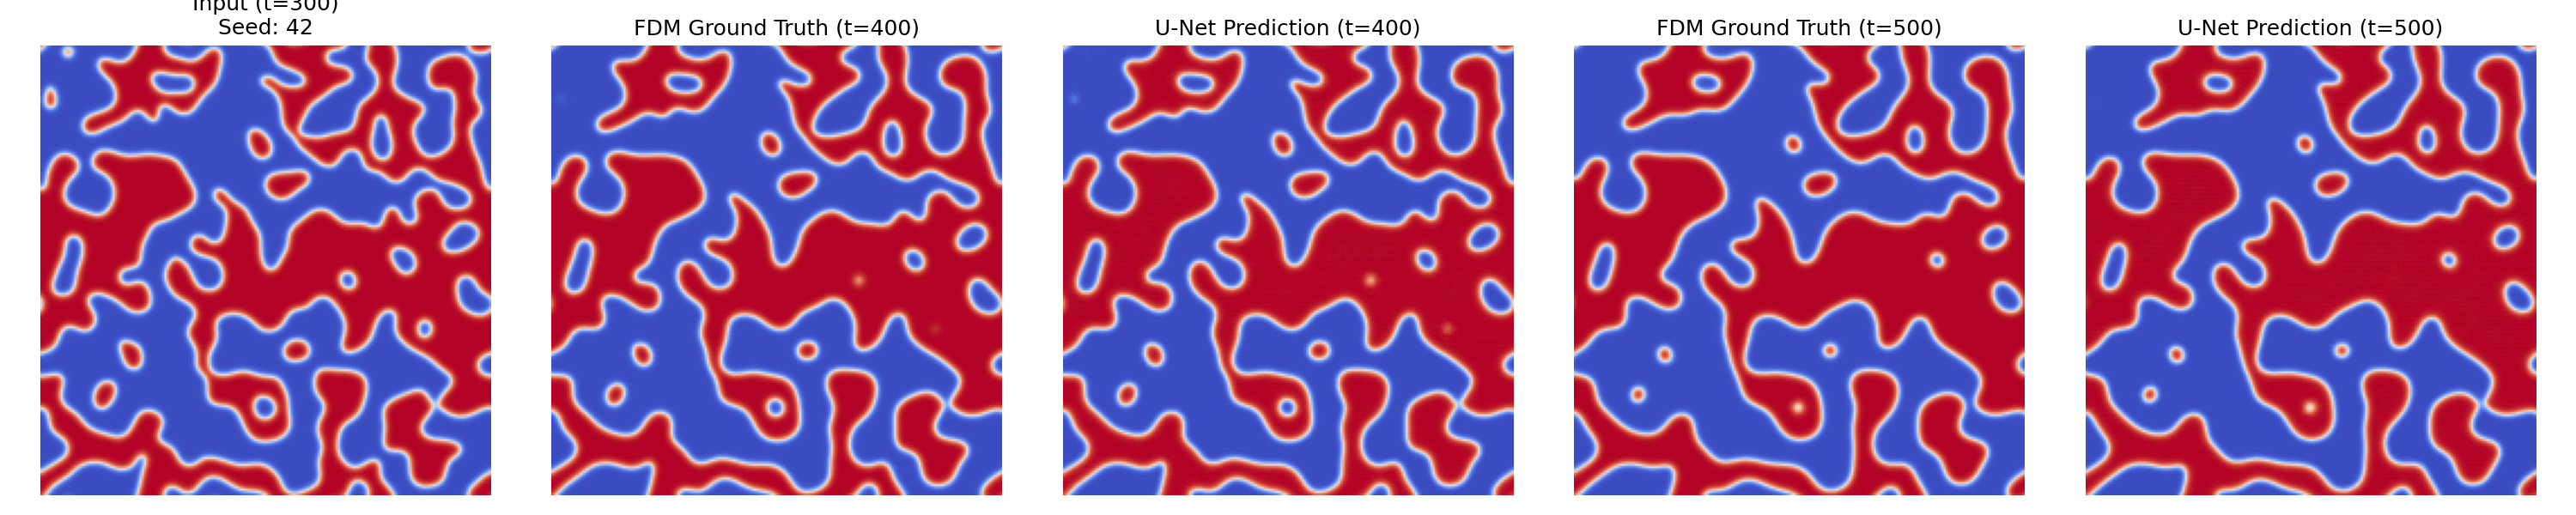
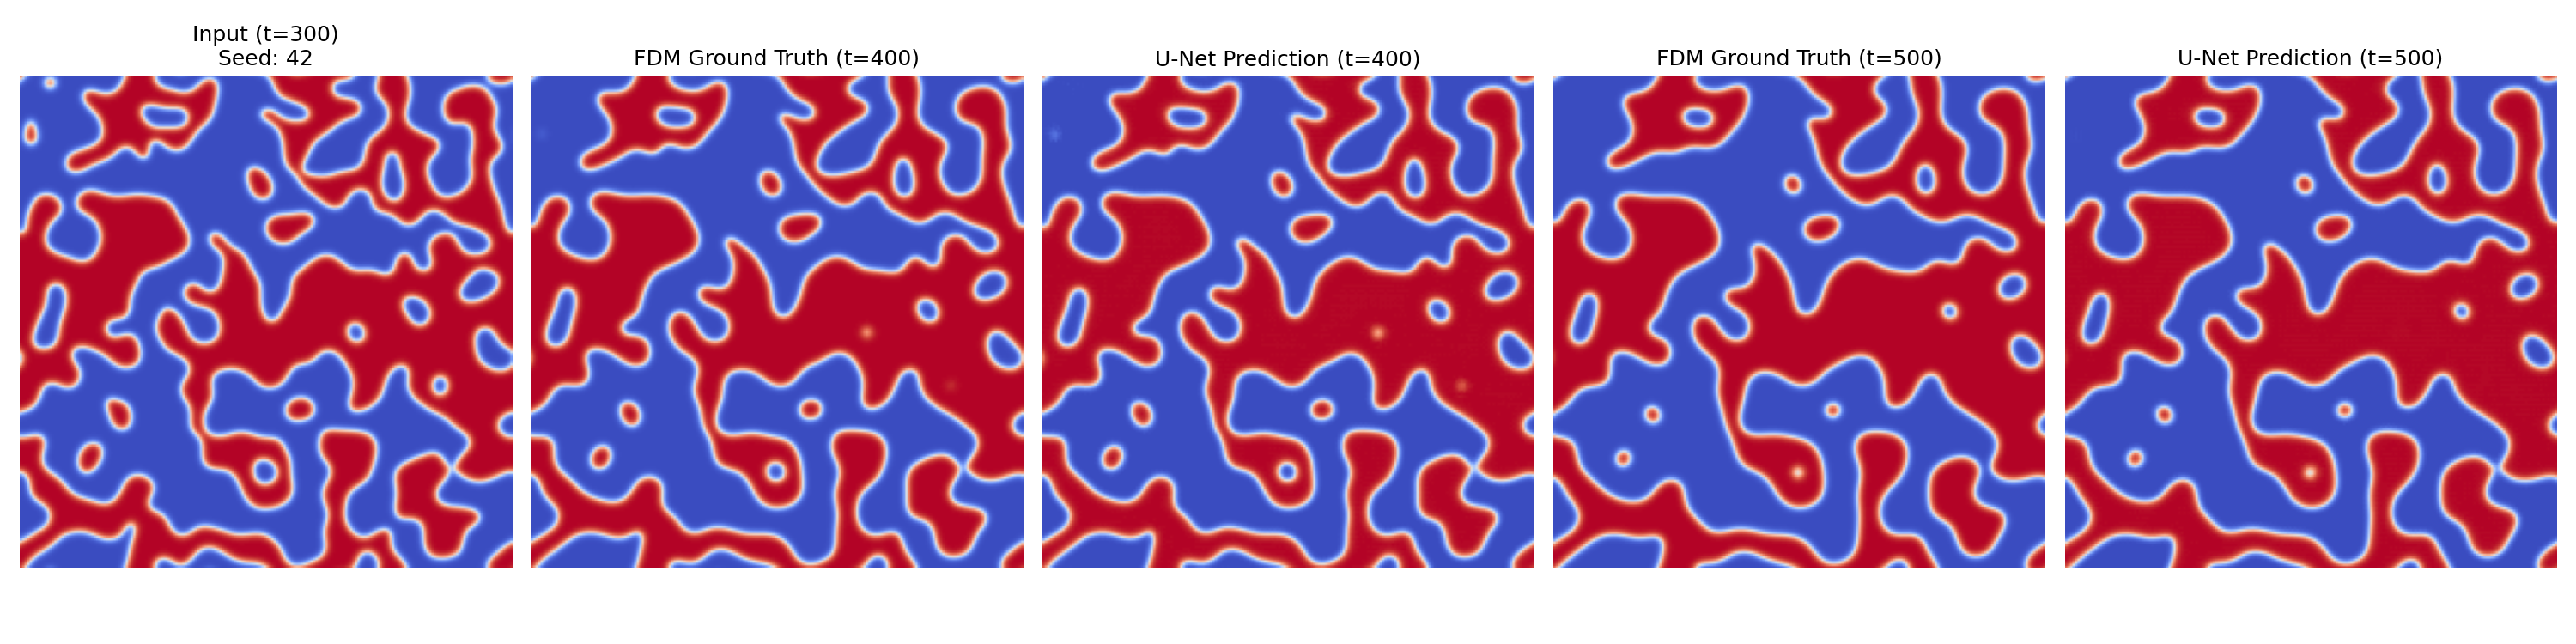
fig: modified fig size

diff --git a/allen_cahn_unet.py b/allen_cahn_unet.py
@@ -177,7 +177,7 @@ if __name__ == "__main__":
 
     # --- Part C: Visualization ---
     print("Saving comparison plot...")
-    fig, axes = plt.subplots(1, 5, figsize=(20, 4))
+    fig, axes = plt.subplots(1, 5, figsize=(20, 5))
     
     axes[0].imshow(test_t300_gt, cmap='coolwarm', vmin=-1, vmax=1)
     axes[0].set_title("Input (t=300)\nSeed: 42")